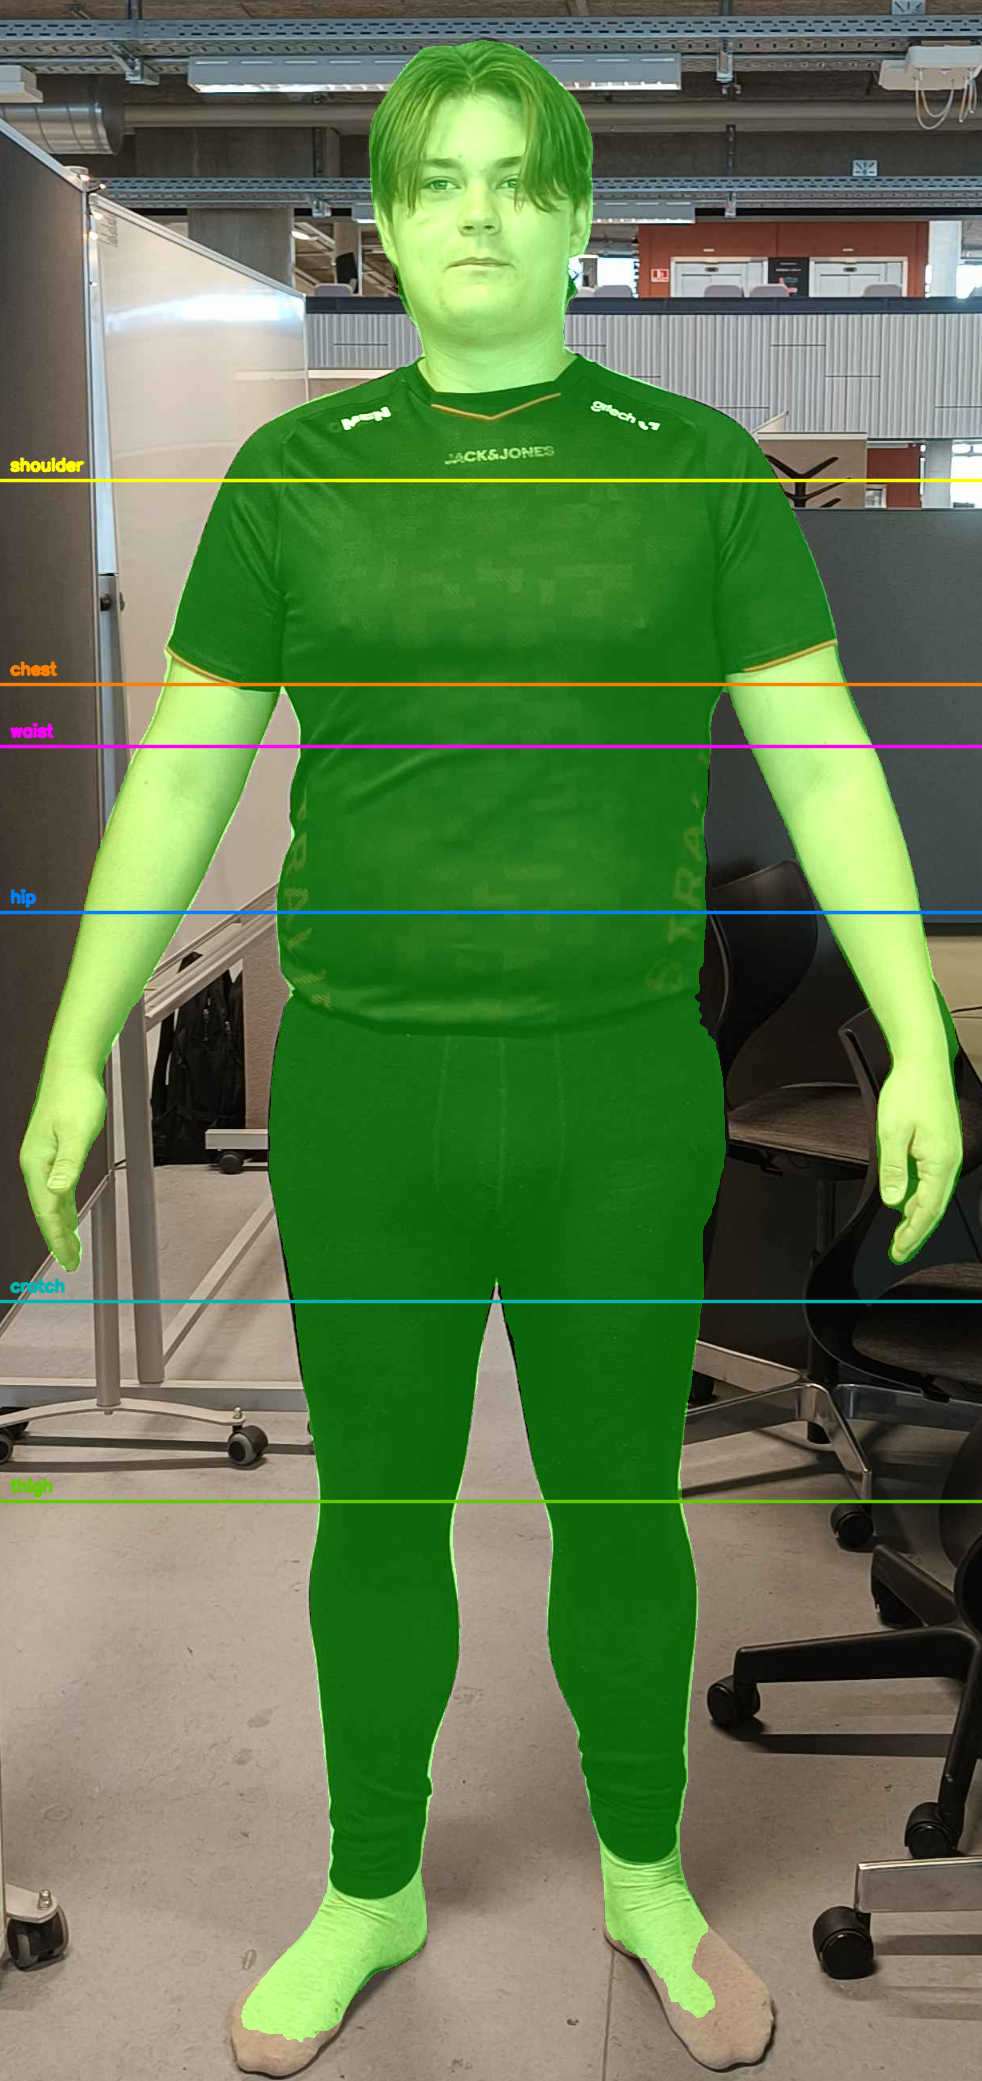
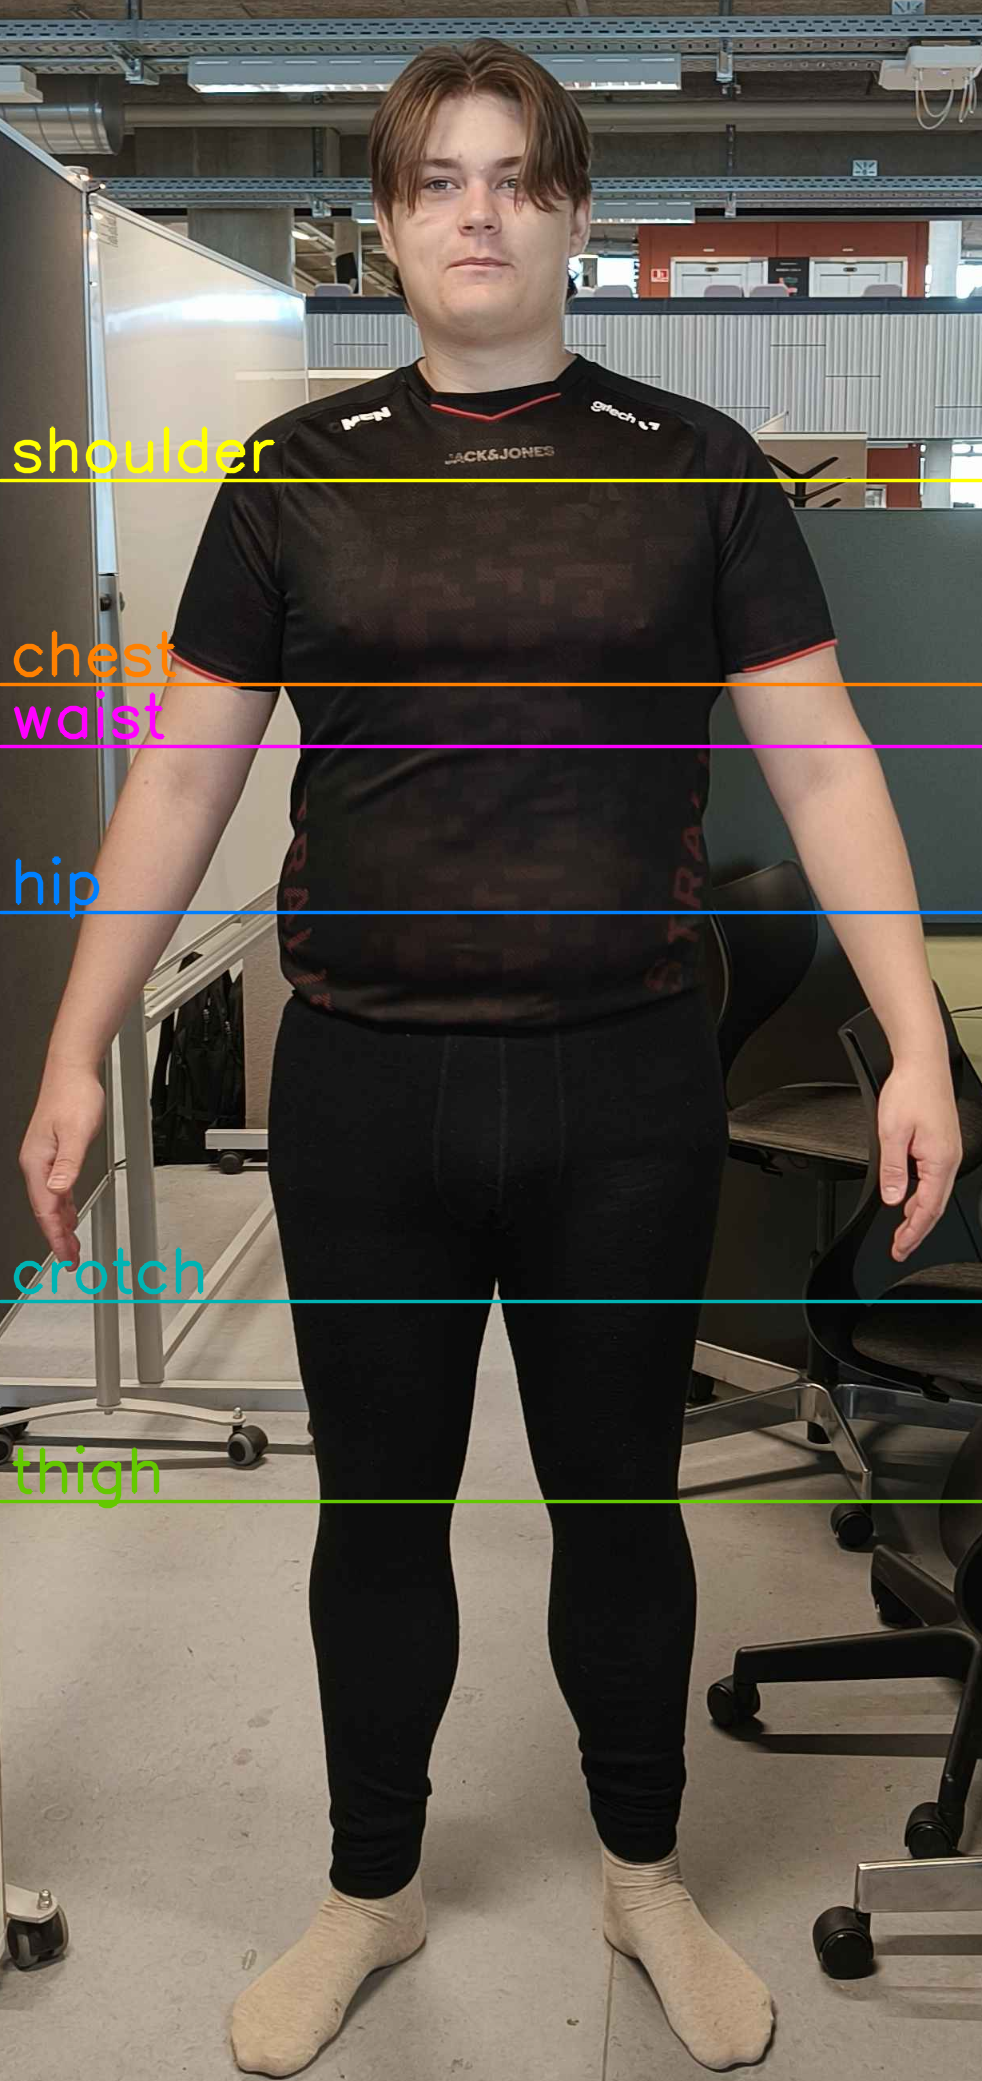
Auto stash before merge of "main" and "origin/main"

diff --git a/DatasetStandardDiviation.py b/DatasetStandardDiviation.py
@@ -2,71 +2,59 @@ import pandas as pd
 import numpy as np
 
 # Navnet på den uploadede fil er nu kun filnavnet
-FILE_PATH = r"C:\Uni\MED7\Semester project\P7_UTRY_Py\Mendeley Datasets\Body Measurements _ original_CSV.csv"
+FILE_PATH = r"Mendeley Datasets/Body Measurements _ original_CSV.csv"
 
-# Kolonner, vi skal bruge til toleranceberegning. De skal matche filen PRÆCIST.
+# Kolonner, vi skal bruge til toleranceberegning.
 MEASUREMENT_COLUMNS = [
     'ChestWidth ',      # OBS: Mellemrum efter 'ChestWidth'
     'ShoulderToWaist ', # OBS: Mellemrum efter 'ShoulderToWaist'
     'ArmLength '        # OBS: Mellemrum efter 'ArmLength'
 ]
 
+# Konverteringsfaktor: 1 inch = 2.54 cm
+INCHES_TO_CM = 2.54
+
 
 def calculate_std_devs(file_path: str):
-    """
-    Indlæser kropsmålingsdata og beregner standardafvigelsen (sigma) for nøglemålinger.
-    """
-    try:
-        # 1. Indlæs data
-        df = pd.read_csv(file_path)
+    # 1. Indlæs data
+    df = pd.read_csv(file_path)
 
-        # 2. Rengøring og Udvalg
-        # Vi udelukker rækker med manglende værdier (NaN) i de kolonner, vi vil analysere.
-        df_clean = df.dropna(subset=MEASUREMENT_COLUMNS)
+    # 2. Rengøring og Udvalg
+    # Vi udelukker rækker med manglende værdier (NaN) i de kolonner, vi vil analysere.
+    df_clean = df.dropna(subset=MEASUREMENT_COLUMNS)
 
-        if df_clean.empty:
-            print("Fejl: Datasættet er tomt efter fjernelse af manglende værdier.")
-            return
+    # 3. Konvertering til cm
+    # Multiplicer de relevante kolonner med konverteringsfaktoren
+    for col in MEASUREMENT_COLUMNS:
+        # Konverterer fra inches til cm (inches * 2.54)
+        df_clean[col] = df_clean[col] * INCHES_TO_CM
 
-        print(f"✅ Data indlæst succesfuldt. Brugte {len(df_clean)} af {len(df)} rækker.")
-        print("-" * 40)
+    print(f"Data indlæst og konverteret til cm. Brugte {len(df_clean)} af {len(df)} rækker.")
+    print("-" * 40)
 
-        # 3. Beregn Standardafvigelse for hver kolonne
-        std_devs = {}
-        for col in MEASUREMENT_COLUMNS:
-            # Beregn Standardafvigelse (sigma)
-            std_dev = df_clean[col].std()
-            std_devs[col] = std_dev
+    # 4. Beregn Standardafvigelse for hver kolonne
+    std_devs = {}
+    for col in MEASUREMENT_COLUMNS:
+        # Beregn Standardafvigelse
+        std_dev = df_clean[col].std()
+        std_devs[col] = std_dev
 
-        # 4. Udskriv resultater
-        print("📊 Standardafvigelser (σ) for nøglemålinger (i cm):")
+    # 5. Udskriv resultater
+    print("Standardafvigelser (σ) for measurements (i cm):")
 
-        display_mapping = {
-            'ChestWidth': 'Brystmål (Chest Circumference)',
-            'ShoulderToWaist': 'Kropslængde (ShoulderToWaist)',
-            'ArmLength': 'Ærmelængde (ArmLength)'
-        }
+    display_mapping = {
+        'ChestWidth ': 'Brystmål (ChestWidth)',
+        'ShoulderToWaist ': 'Kropslængde (ShoulderToWaist)',
+        'ArmLength ': 'Ærmelængde (ArmLength)'
+    }
 
-        # Udskriv i tabelformat
-        print("{:<30} {:>10}".format("Mål", "σ (cm)"))
-        print("-" * 40)
-        for col, sigma in std_devs.items():
-            print("{:<30} {:>10.2f}".format(display_mapping.get(col, col), sigma))
-
-
-        # Brug 1.5 * sigma som en typisk "god" tolerance for advarsel om stram pasform
-        chest_sigma = std_devs.get('ChestWidth', 0.0)
-        if chest_sigma > 0:
-            suggested_tolerance = chest_sigma * 1.5
-            print(
-                f"For Brystmål (Chest), brug f.eks. 1.5 x σ = {suggested_tolerance:.2f} cm som din 'EXCESSIVE_FIT_TOLERANCE'.")
-
-
-    except FileNotFoundError:
-        print(f"Fejl: Filen '{file_path}' blev ikke fundet. Tjek stien.")
-    except Exception as e:
-        print(f"Der opstod en uventet fejl: {e}")
-
+    # Udskriv i tabelformat
+    print("{:<30} {:>10}".format("Mål", "σ (cm)"))
+    print("-" * 40)
+    for col, sigma in std_devs.items():
+        # Brug .get() for at håndtere tilfælde, hvor nøglen har et mellemrum
+        display_name = display_mapping.get(col, col.strip())
+        print("{:<30} {:>10.2f}".format(display_name, sigma))
 
 if __name__ == "__main__":
     calculate_std_devs(FILE_PATH)

diff --git a/Measurements_Calculation/body_measure/src/body_measure/measure_v2.py b/Measurements_Calculation/body_measure/src/body_measure/measure_v2.py
@@ -101,15 +101,16 @@ def _crop_and_resize_to_height(
 
 def _overlay(img_bgr, mask_u8, rows, out_path):
     vis = img_bgr.copy()
-    tint = np.zeros_like(vis); tint[mask_u8 > 0] = (0,255,0)
-    vis = cv2.addWeighted(vis, 1.0, tint, 0.35, 0)
+    #tint = np.zeros_like(vis); tint[mask_u8 > 0] = (0,255,0)
+    #vis = cv2.addWeighted(vis, 1.0, tint, 0.35, 0)
     colors = {"shoulder":(0,255,255), "chest":(0,128,255), "waist":(255,0,255),
               "hip":(255,128,0), "crotch":(180,180,0), "thigh":(0,200,100)}
     h, w = mask_u8.shape[:2]
     for k, y in rows.items():
         y = int(max(0, min(h-1, y)))
         cv2.line(vis, (0,y), (w-1,y), colors.get(k,(255,255,255)), 2, cv2.LINE_AA)
-        cv2.putText(vis, k, (10, max(20,y-10)), cv2.FONT_HERSHEY_SIMPLEX, 0.55, colors.get(k,(255,255,255)), 2, cv2.LINE_AA)
+        cv2.putText(vis, k, (10, max(20, y - 10)), cv2.FONT_HERSHEY_SIMPLEX, 2, colors.get(k, (255, 255, 255)), 3,
+                    cv2.LINE_AA)
     _save(out_path, vis)
 
 # ---------- arm suppression ----------

diff --git a/Andy.py b/Andy.py
@@ -92,11 +92,11 @@ def get_recommended_size(measurements: Dict[str, float], size_chart: pd.DataFram
     # VIGTIGT: Dette er de features, der bruges til afstandsberegningen.
     REQUIRED = ['ChestFrontWidth', 'ShoulderToWaist', 'ArmLength']
 
-    # Definer de dynamiske tolerancer for begge tjek
+    # Standardafvigelsen beregnet i cm for hvert mål til at bestemme størrelsen (standardafvigelsen udregnet fra Kaggle datasæt)
     TOLERANCES = {
-        'ChestFrontWidth': 5.31,
-        'ShoulderToWaist': 5.38,
-        'ArmLength': 5.38
+        'ChestFrontWidth': 13.50,
+        'ShoulderToWaist': 13.66,
+        'ArmLength': 13.66
     }
 
     # check for missing data
